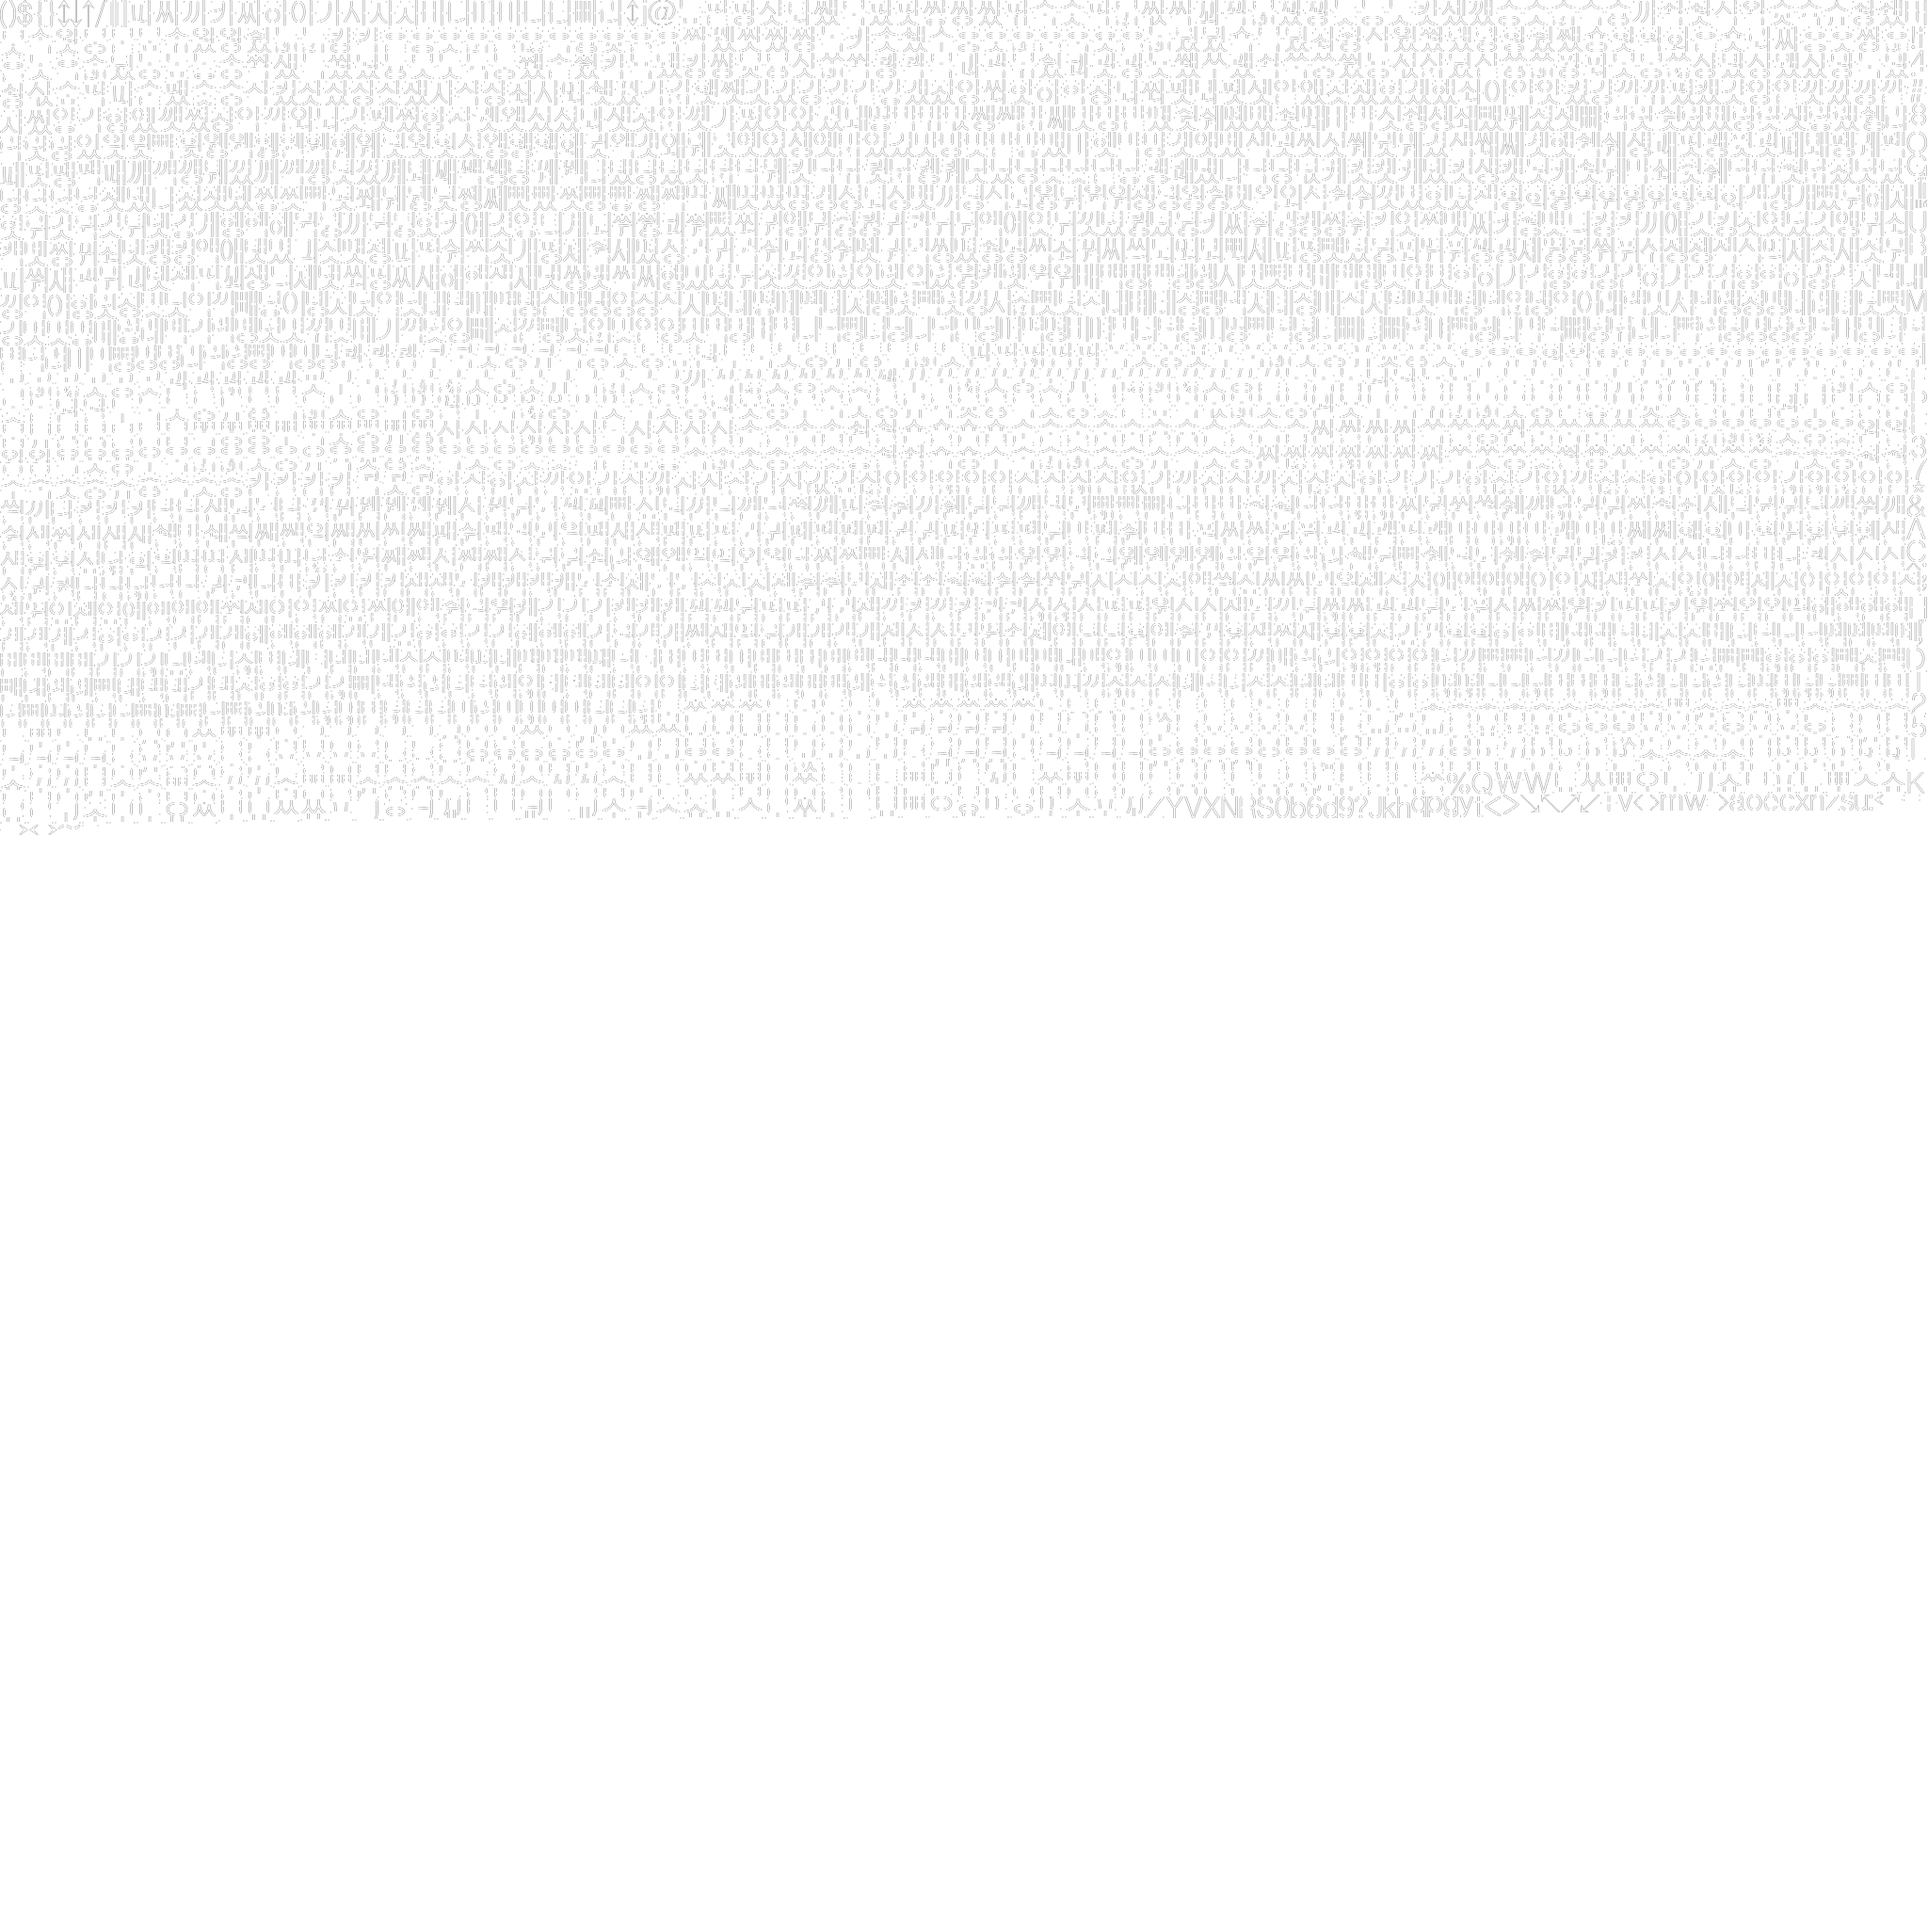
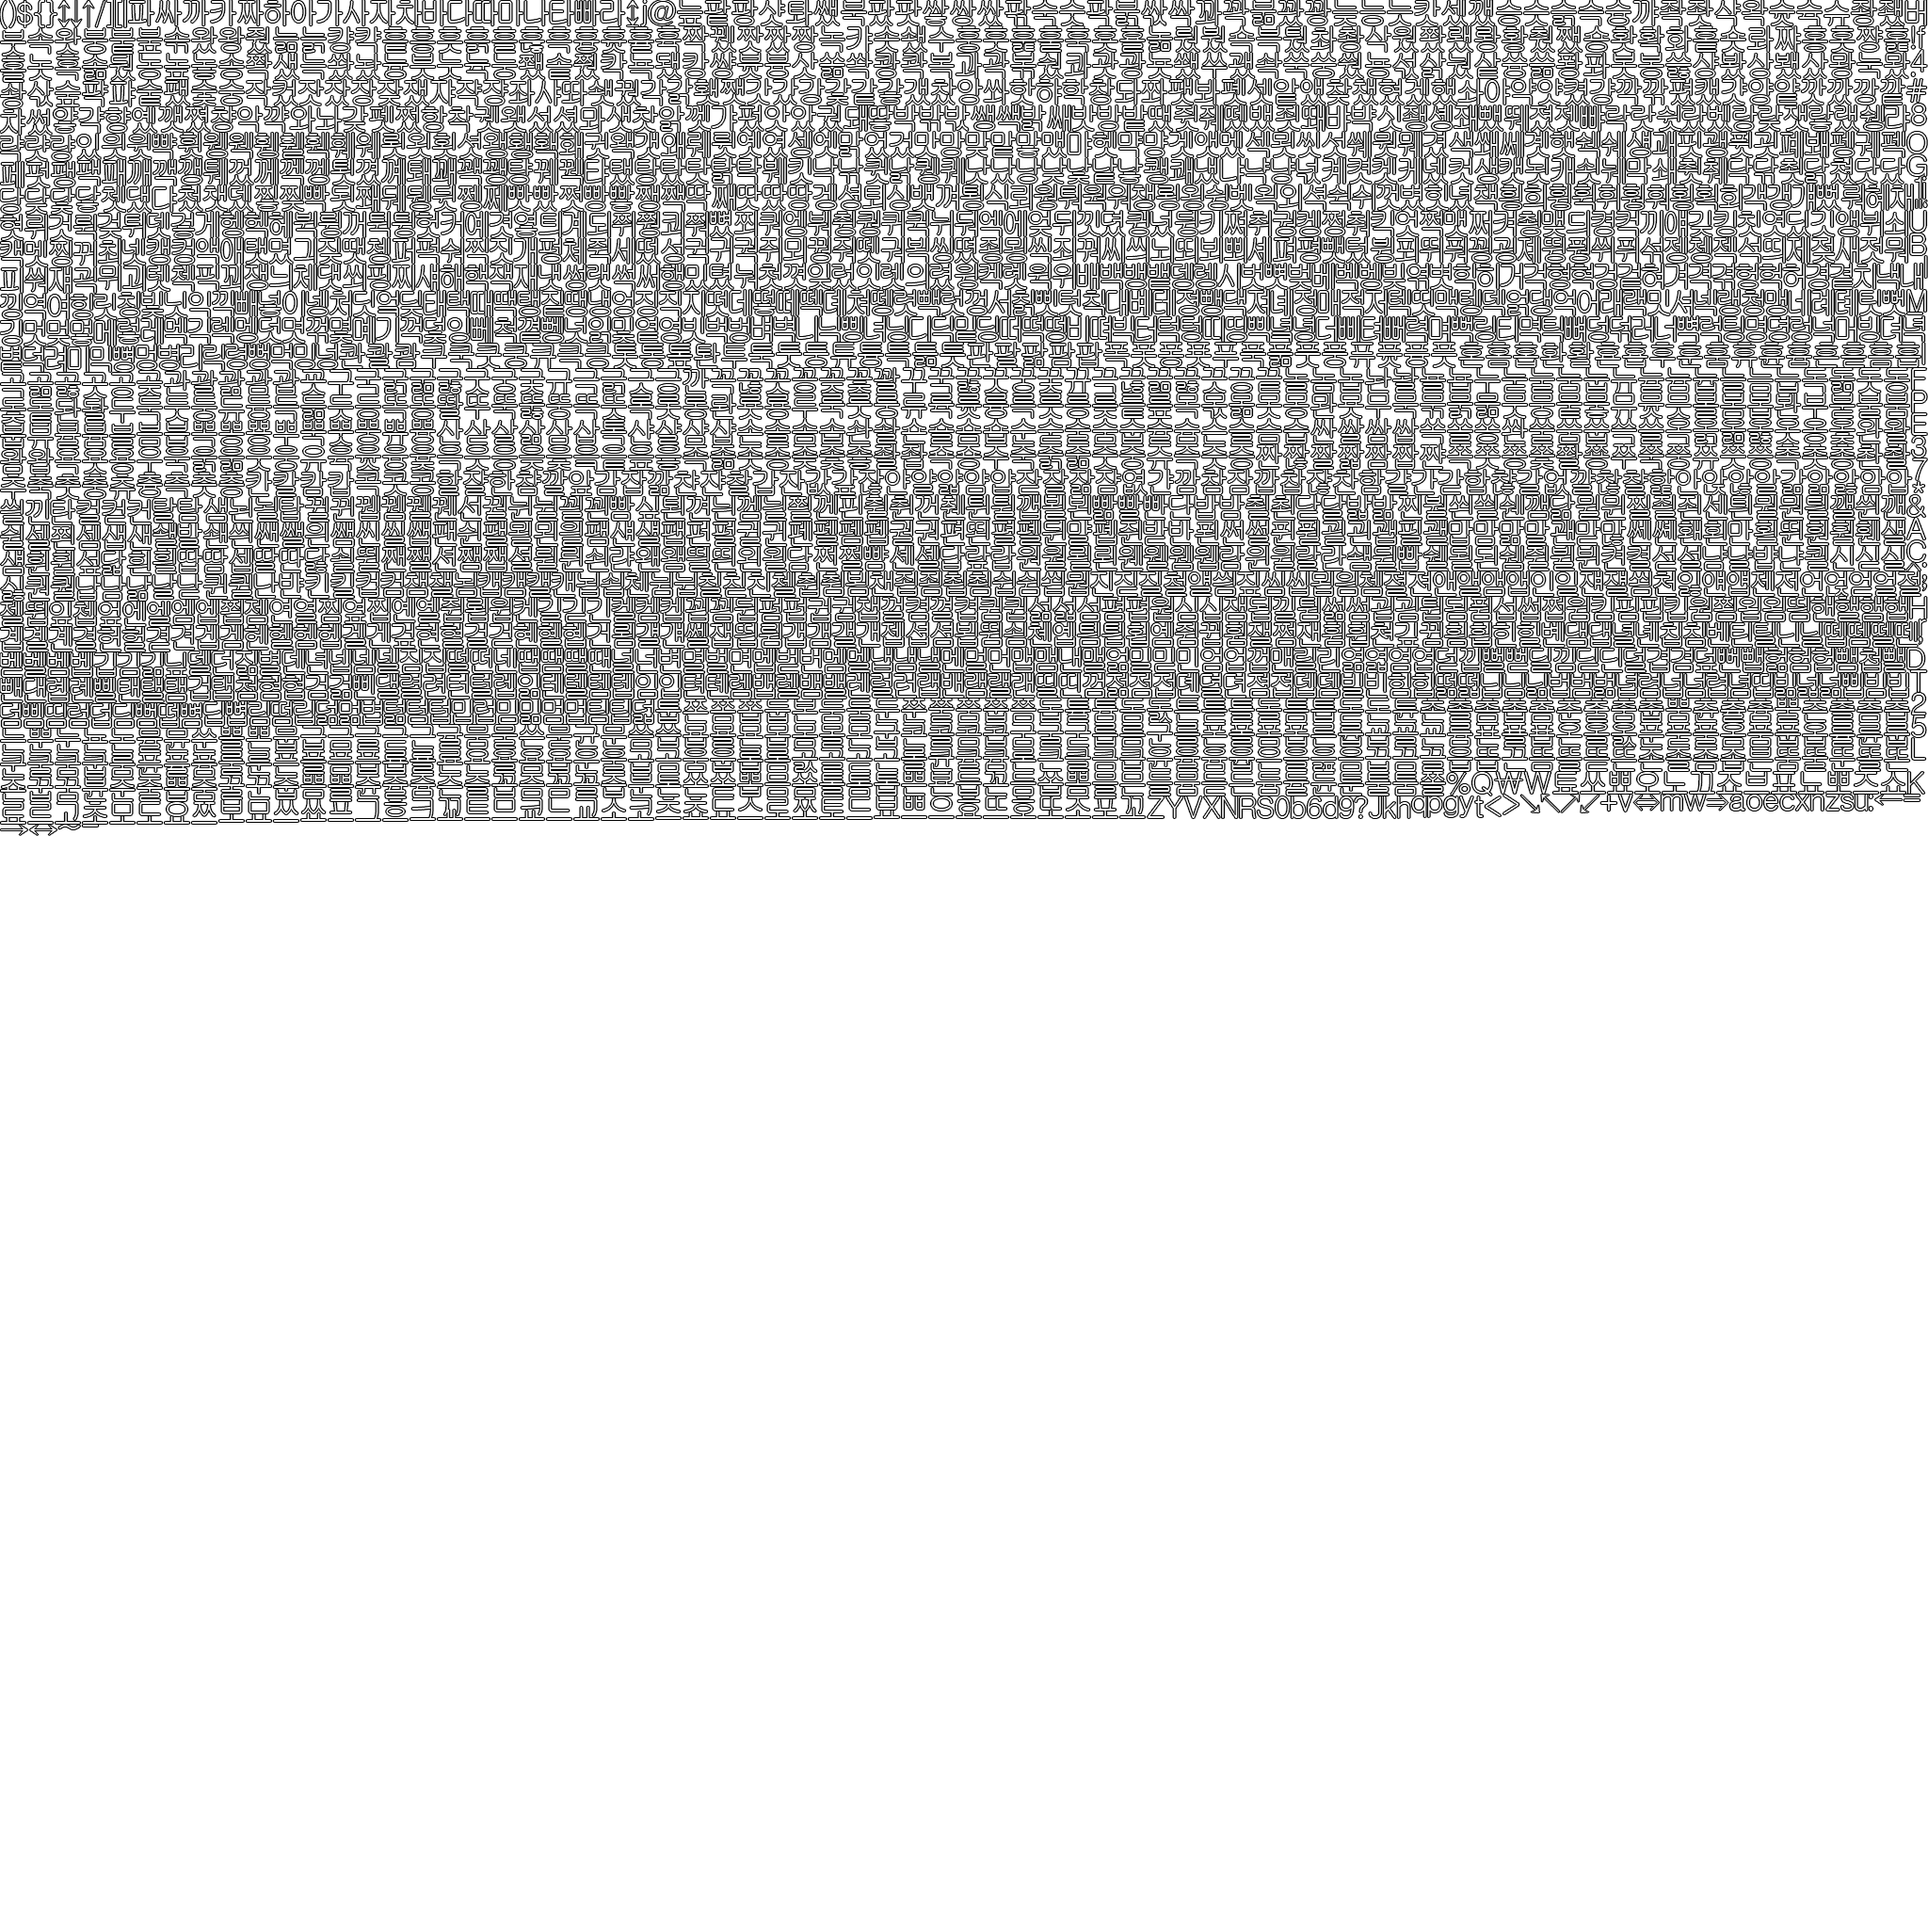
added outline to bitmap text

Changed region(s): [[0.0, 0.0, 1.0, 0.4375]]

diff --git a/Hangul/RS_HangulBitmapText.js b/Hangul/RS_HangulBitmapText.js
@@ -3,12 +3,32 @@
  * @author biud436
  *
  * @help
- * 비트맵 폰트는 나눔고딕 32px 기반이며 2048 사이즈의 아틀라스 Texture입니다.
- * 필요한 파일은 hangul_0.png 파일과 hangul.xml 파일이며 해당 파일을
- * img/hangul 폴더에 위치시켜주시기 바랍니다.
+ * 이 플러그인을 사용하려면 YEP_CoreEngine에서 약간의 설정이 필요합니다.
+ * 우선 해상도 설정에 따라 그래픽 스케일 값이 달라질 수 있습니다.
+ * 코어 엔진에서 그래픽 스케일 업데이트 설정을 해야 비트맵 폰트가 축소나 확대되지 않습니다.
  * 
- * 흰색이 가장 빠르게 그려지며, 
- * 다른 색상은 더블 버퍼링을 거치므로 속도가 약간 느립니다.
+ * 그래픽 스케일 업데이트 방법은 
+ * YEP_CoreEngine 플러그인에서 Update Real Scale 매개변수를 true로 체크하면 됩니다.
+ * 
+ * 또한 Font Size도 변경해야 합니다. 
+ * 선택한 비트맵 폰트의 사이즈와 동일하게 설정하시기 바랍니다.
+ * 
+ * 메시지 코어나 한글 메시지 시스템에서도 같은 폰트 사이즈로 변경해야 합니다.
+ * 폰트 사이즈가 다르면 비트맵 폰트가 축소 및 확대되면서 약간 변형돼 보일 수 있기 때문입니다.
+ * 
+ * 비트맵 폰트는 세 가지 종류가 준비되어있습니다.
+ * 
+ * 나눔고딕 32px, 
+ * 굴림 16px, 
+ * 굴림 32px 중 하나를 선택할 수 있습니다.
+ * 
+ * 필요한 파일은 hangul_0.png 파일과 hangul.xml 파일입니다. 
+ * 해당 파일들을 img/hangul 폴더에 위치시켜주시기 바랍니다.
+ * 
+ * 기본 비트맵 텍스트의 색상인 흰색이 가장 빠르게 그려집니다.
+ * 
+ * 텍스트 코드에서 색상 변경 명령어로 다른 색상을 사용하는 경우, 
+ * 비트맵이 준비되지 않았기 때문에 약간의 가공을 거쳐야 하므로 조금은 느려질 수 있습니다.
  * 
  * =============================================================================
  * Change Log
@@ -26,6 +46,8 @@
  * - 퍼포먼스가 향상되었습니다.
  * 2018.12.08 (v1.0.6) :
  * - 숫자 파싱 오류 수정
+ * 2019.07.21 (v1.0.7) :
+ * - 비트맵 텍스트 이미지에 검정색 테두리를 추가하였습니다.
  */
 
 var Imported = Imported || {};
